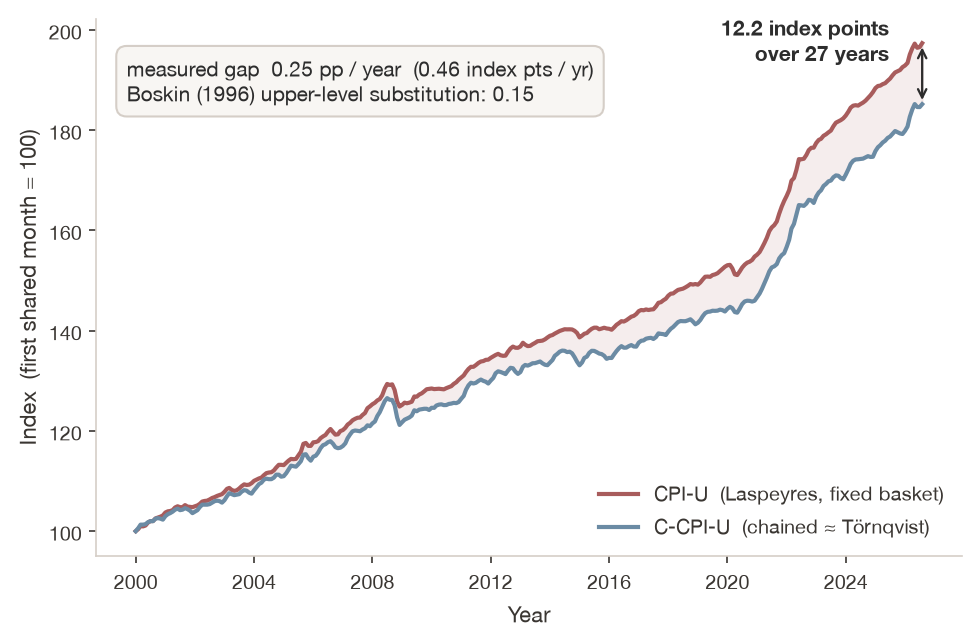
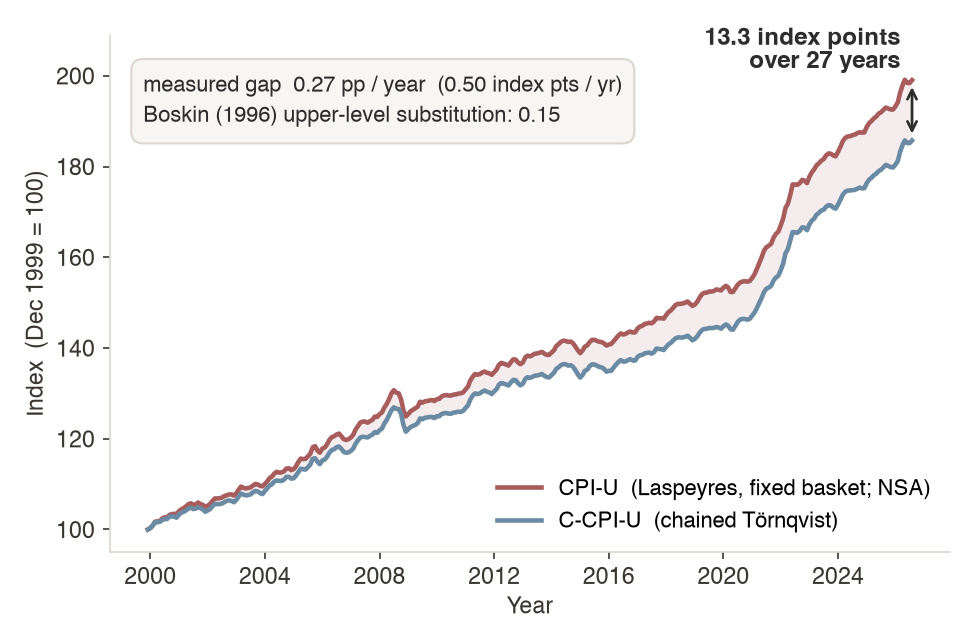
5200 Ch 2 deck: chained-CPI gap to 0.27 pp/yr, measured like-for-like as Lab 2 now does
Lab 2 Part 2 was rebuilt to compare the not seasonally adjusted CPI-U
(CPIAUCNS) with C-CPI-U from Dec 1999, the chained index's own base and
adjustment. Against the adjusted CPIAUCSL the end-point gap swings by more
than a point with the final month, which is where the deck's 0.25 came from.

Figure 4 regenerated (13.3 index points over 26.7 years = 0.50 points/yr =
0.27 pp/yr) by book/scripts/fig_5200_ch02_chained_cpi.py. Poll 3, its reveal
and the takeaway compound 0.27 instead of 0.25 (~15% over 53 years). The Lab 2
line on the closing slide no longer calls the broken 7.6-9.8 range index
units: it is real wages in 1982-84 dollars labelled as 2020 dollars.

Changed region(s): [[0.0, 0.0312, 0.9846, 0.9346], [0.5231, 0.9346, 0.5846, 0.9657], [0.6154, 0.2181, 0.6462, 0.2492]]

diff --git a/econ5200/ch02-measurement-indexes-nominal-vs-real/index.html b/econ5200/ch02-measurement-indexes-nominal-vs-real/index.html
@@ -514,16 +514,16 @@
     <section id="chained-cpi" style="padding: 24px 44px;">
       <h2 style="margin-bottom: 4px;"><i class="fa-solid fa-link" style="color: var(--secondary-color);"></i> The Theory, Shipped: the Chained CPI</h2>
       <div class="content" style="display: grid; grid-template-columns: 1fr 310px; gap: 20px; align-items: center;">
-        <img src="figures/figure_004_cpiu_vs_chained.png" alt="CPI-U and Chained CPI both indexed to 100 in 2000, diverging steadily to a gap of about 12 index points by 2026, annotated as about 0.25 percentage points per year of growth-rate gap, against the Boskin Commission's upper-level substitution estimate of 0.15" style="width: 100%; border-radius: 6px;">
+        <img src="figures/figure_004_cpiu_vs_chained.png" alt="Not seasonally adjusted CPI-U and the Chained CPI, both indexed to 100 in December 1999, diverging steadily to a gap of 13.3 index points by August 2026, annotated as 0.27 percentage points per year of growth-rate gap (0.50 index points per year), against the Boskin Commission's upper-level substitution estimate of 0.15" style="width: 100%; border-radius: 6px;">
         <div>
           <p style="font-size: 14pt; line-height: 1.55;">C-CPI-U (published since 2002) <em>is</em> a <strong>T&ouml;rnqvist</strong>, chained monthly with weights that move every month. Early prints use a CES approximation, revised 10&ndash;12 months later.</p>
           <div style="background: #f8f6f3; border-radius: 8px; padding: 13px 16px; margin-top: 14px;">
-            <p style="font-size: 14pt; line-height: 1.6; margin: 0;">Measured on live FRED in <strong>Lab 2, Part 2</strong>:<br><strong style="color: var(--accent-color); font-size: 17pt;">&asymp; 0.25 pp / year</strong><br><span style="color: var(--muted-color);">~12 index points since 2000 &mdash; the lab's 0.46 is points a year, not percent</span></p>
+            <p style="font-size: 14pt; line-height: 1.6; margin: 0;">Measured on live FRED in <strong>Lab 2, Part 2</strong>:<br><strong style="color: var(--accent-color); font-size: 17pt;">&asymp; 0.27 pp / year</strong><br><span style="color: var(--muted-color);">13.3 index points since Dec 1999 &mdash; 0.50 <em>points</em> a year, which is not a rate</span></p>
           </div>
           <p style="font-size: 13pt; color: var(--muted-color); margin-top: 12px; line-height: 1.5;">Boskin (1996): substitution 0.4 pp/yr = 0.15 upper-level + 0.25 lower-level. The lower level was fixed in 1999 <em>inside both</em> indexes, so this gap compares to the <strong>0.15</strong>. Total overstatement: 1.1 (0.8&ndash;1.6).</p>
         </div>
       </div>
-      <aside class="notes">2 min (was 3 &mdash; cut 2026-09-13). UNITS CORRECTION 2026-09-13, say it before they email you: Lab 2 Part 2 prints "annual gap" as 12.2 index points / 26.6 years = 0.46, and that is index POINTS per year. By 2026 both indexes stand near 190, so as a growth rate the gap is 2.59% vs 2.35% a year = 0.25 pp/yr (log gap / years = 0.24). The old deck said "0.45 pp/yr" &mdash; a units error, and a nice one to confess to: it is exactly "an index level is not a rate", the vibecession slide again. Be precise about Boskin: 0.4 was total SUBSTITUTION bias, 0.15 upper-level (between item categories) plus 0.25 lower-level (within them). BLS moved most lower-level indexes to geometric means in January 1999, inside BOTH CPI-U and C-CPI-U, so the chained gap measures upper-level substitution and the like-for-like Boskin figure is 0.15. Measured 0.25 against 0.15 predicted. 1.1 (range 0.8&ndash;1.6) was the total, which also includes quality and new-goods bias. Formula precision: the final C-CPI-U is a monthly-chained T&ouml;rnqvist; the initial release uses a constant-elasticity-of-substitution formula and is revised over the following 10&ndash;12 months.</aside>
+      <aside class="notes">2 min (was 3 &mdash; cut 2026-09-13). UNITS CORRECTION 2026-09-13, revised 2026-09-14 to match the rebuilt Lab 2. The lab now compares the NOT seasonally adjusted CPI-U (CPIAUCNS) with C-CPI-U, which is itself unadjusted and based Dec 1999 = 100; against the adjusted CPIAUCSL the end-point gap swings by more than a point with the final month. Lab 2 Part 2 prints both: 13.3 index points / 26.7 years = 0.50 index POINTS per year, and then makes students convert &mdash; 2.61% vs 2.35% a year = 0.27 pp/yr (log version 0.26). Both indexes now stand near 190&ndash;200, so a 1% rise is ~2 points, which is why the points figure is roughly double. The old deck and lab said "0.45 pp/yr" &mdash; a units error, and a nice one to confess to: it is exactly "an index level is not a rate", the vibecession slide again. BLS's own average Dec-to-Dec difference, 2001&ndash;2023, is about 0.2 pp; the 2021&ndash;23 relative-price swings push this window higher. Be precise about Boskin: 0.4 was total SUBSTITUTION bias, 0.15 upper-level (between item categories) plus 0.25 lower-level (within them). BLS moved most lower-level indexes to geometric means in January 1999, inside BOTH CPI-U and C-CPI-U, so the chained gap measures upper-level substitution and the like-for-like Boskin figure is 0.15. Measured 0.27 against 0.15 predicted. 1.1 (range 0.8&ndash;1.6) was the total, which also includes quality and new-goods bias. Formula precision: the final C-CPI-U is a monthly-chained T&ouml;rnqvist; the initial release uses a constant-elasticity-of-substitution formula and is revised over the following 10&ndash;12 months.</aside>
     </section>
 
     <!-- SLIDE 25: political object -->
@@ -762,17 +762,17 @@
         </div>
         <div class="poll-grid" data-poll-id="ch02-econ5200-poll-3" style="display: grid; grid-template-columns: 1fr 1fr; gap: 12px; margin-top: 14px; font-size: 14pt;">
           <div class="poll-option" data-choice="A" style="background: #f0f5f8; padding: 13px 17px; border-radius: 8px; cursor: pointer; transition: all 0.2s; border: 3px solid transparent;">A) The series is nominal, not real</div>
-          <div class="poll-option" data-choice="B" style="background: #f0f5f8; padding: 13px 17px; border-radius: 8px; cursor: pointer; transition: all 0.2s; border: 3px solid transparent;">B) It is a joint claim about wages <em>and</em> the deflator &mdash; the chained-CPI gap says the ruler overstates inflation by ~0.25 pp/yr</div>
+          <div class="poll-option" data-choice="B" style="background: #f0f5f8; padding: 13px 17px; border-radius: 8px; cursor: pointer; transition: all 0.2s; border: 3px solid transparent;">B) It is a joint claim about wages <em>and</em> the deflator &mdash; the chained-CPI gap says the ruler overstates inflation by ~0.27 pp/yr</div>
           <div class="poll-option" data-choice="C" style="background: #f0f5f8; padding: 13px 17px; border-radius: 8px; cursor: pointer; transition: all 0.2s; border: 3px solid transparent;">C) 2020 dollars are the wrong base period for a 1973 comparison</div>
           <div class="poll-option" data-choice="D" style="background: #f0f5f8; padding: 13px 17px; border-radius: 8px; cursor: pointer; transition: all 0.2s; border: 3px solid transparent;">D) It cherry-picks 1973, which is the local peak</div>
         </div>
-        <aside class="notes">1 min. D is a genuinely good objection and will split the room against B. That is the intended fight. For the reveal: 1.0025^53 = 1.14. The 0.25 is measured on 2000&ndash;2026 only, and pre-1999 CPI methods were more biased, not less &mdash; which is why BLS publishes the CPI-U-RS research series, back-casting current methods. If a student asks "so what is the right real-wage series?", that is the answer to point at.</aside>
+        <aside class="notes">1 min. D is a genuinely good objection and will split the room against B. That is the intended fight. For the reveal: 1.0027^53 = 1.15. The 0.27 is measured on Dec 1999&ndash;2026 only, and pre-1999 CPI methods were more biased, not less &mdash; which is why BLS publishes the CPI-U-RS research series, back-casting current methods. If a student asks "so what is the right real-wage series?", that is the answer to point at.</aside>
       </section>
       <section id="poll-3-reveal" data-poll-results="ch02-econ5200-poll-3" style="padding: 28px 50px;">
         <h2><i class="fa-solid fa-circle-check" style="color: var(--success-color);"></i> Answer: B &mdash; The Ruler Is Part of the Claim</h2>
         <div class="poll-results-chart" data-poll-id="ch02-econ5200-poll-3" style="display:flex; gap:20px; align-items:flex-end; justify-content:center; height:140px; margin:8px 60px 32px;"></div>
         <div style="padding: 0 46px;">
-          <p style="font-size: 14.5pt; line-height: 1.6;">Deflating by an index that overstates inflation <strong>understates real growth</strong> &mdash; and the chained-CPI slide measured it on live data. Compounded over 53 years, even 0.25 pp/year is about <strong>14%</strong> &mdash; against a measured real gain of 3.2%.</p>
+          <p style="font-size: 14.5pt; line-height: 1.6;">Deflating by an index that overstates inflation <strong>understates real growth</strong> &mdash; and the chained-CPI slide measured it on live data. Compounded over 53 years, even 0.27 pp/year is about <strong>15%</strong> &mdash; against a measured real gain of 3.2%.</p>
           <div style="background: #eef5ee; border-left: 4px solid var(--success-color); padding: 12px 20px; border-radius: 8px; margin-top: 12px;">
             <p style="font-size: 13.5pt; margin: 0;"><strong>Why D is the good wrong answer:</strong> it is a real objection &mdash; 1973 <em>is</em> the 1970s peak, so the window flatters the stagnation thesis. But D is a claim about the <em>window</em>; B is a claim about the <em>ruler</em>. A wrong ruler survives every choice of window. <strong>C is disposed of by Poll 1.</strong></p>
           </div>
@@ -1071,7 +1071,7 @@
           </div>
           <div style="display: grid; grid-template-columns: 42px 1fr; align-items: start; background: #eef5ee; border-radius: 8px; padding: 13px 18px; border-left: 4px solid var(--success-color);">
             <p style="font-size: 19pt;"><i class="fa-solid fa-scale-balanced" style="color: var(--success-color);"></i></p>
-            <p style="font-size: 14pt;"><strong>The deflator is part of the finding.</strong> &ldquo;Real wages were flat for fifty years&rdquo; is a joint claim about wages <em>and</em> the CPI. At ~0.25 pp/yr, compounding to ~14% over 53 years, the ruler is doing real work.</p>
+            <p style="font-size: 14pt;"><strong>The deflator is part of the finding.</strong> &ldquo;Real wages were flat for fifty years&rdquo; is a joint claim about wages <em>and</em> the CPI. At ~0.27 pp/yr, compounding to ~15% over 53 years, the ruler is doing real work.</p>
           </div>
           <div style="display: grid; grid-template-columns: 42px 1fr; align-items: start; background: #fdf0ea; border-radius: 8px; padding: 13px 18px; border-left: 4px solid var(--danger-color);">
             <p style="font-size: 19pt;"><i class="fa-solid fa-bullseye" style="color: var(--danger-color);"></i></p>
@@ -1108,7 +1108,7 @@
       <h2><i class="fa-solid fa-road" style="color: var(--secondary-color);"></i> Next: Lab 2, and Where This Returns</h2>
       <div class="content">
         <div style="background: #f0f5f8; border-radius: 10px; padding: 15px 22px; border-left: 4px solid var(--secondary-color);">
-          <p style="font-size: 14.5pt;"><strong>Lab 2 &mdash; <code>lab-ch02-diagnostic.ipynb</code>.</strong> Four bugs in a deflation pipeline &mdash; the broken version returns values in the <strong>7.6&ndash;9.8</strong> range, which are index units, not dollars, and that alone should tell you it is wrong. Then CPI-U vs C-CPI-U on live FRED, a Goodhart dashboard, and you ship <code>deflation_utils.py</code>.</p>
+          <p style="font-size: 14.5pt;"><strong>Lab 2 &mdash; <code>lab-ch02-diagnostic.ipynb</code>.</strong> Four bugs in a deflation pipeline &mdash; the broken version returns values in the <strong>7.6&ndash;9.8</strong> range, which are real wages in <em>1982&ndash;84</em> dollars while the code claims 2020 dollars, and that alone should tell you it is wrong. Then CPI-U vs C-CPI-U on live FRED, a Goodhart dashboard, and you ship <code>deflation_utils.py</code>.</p>
         </div>
         <div style="display: grid; grid-template-columns: repeat(3, 1fr); gap: 13px; margin-top: 14px;">
           <div style="background: #eef5ee; border-radius: 10px; padding: 13px 16px; text-align: center;">

diff --git a/econ5200/ch02-measurement-indexes-nominal-vs-real/presentation.html b/econ5200/ch02-measurement-indexes-nominal-vs-real/presentation.html
@@ -514,16 +514,16 @@
     <section id="chained-cpi" style="padding: 24px 44px;">
       <h2 style="margin-bottom: 4px;"><i class="fa-solid fa-link" style="color: var(--secondary-color);"></i> The Theory, Shipped: the Chained CPI</h2>
       <div class="content" style="display: grid; grid-template-columns: 1fr 310px; gap: 20px; align-items: center;">
-        <img src="figures/figure_004_cpiu_vs_chained.png" alt="CPI-U and Chained CPI both indexed to 100 in 2000, diverging steadily to a gap of about 12 index points by 2026, annotated as about 0.25 percentage points per year of growth-rate gap, against the Boskin Commission's upper-level substitution estimate of 0.15" style="width: 100%; border-radius: 6px;">
+        <img src="figures/figure_004_cpiu_vs_chained.png" alt="Not seasonally adjusted CPI-U and the Chained CPI, both indexed to 100 in December 1999, diverging steadily to a gap of 13.3 index points by August 2026, annotated as 0.27 percentage points per year of growth-rate gap (0.50 index points per year), against the Boskin Commission's upper-level substitution estimate of 0.15" style="width: 100%; border-radius: 6px;">
         <div>
           <p style="font-size: 14pt; line-height: 1.55;">C-CPI-U (published since 2002) <em>is</em> a <strong>T&ouml;rnqvist</strong>, chained monthly with weights that move every month. Early prints use a CES approximation, revised 10&ndash;12 months later.</p>
           <div style="background: #f8f6f3; border-radius: 8px; padding: 13px 16px; margin-top: 14px;">
-            <p style="font-size: 14pt; line-height: 1.6; margin: 0;">Measured on live FRED in <strong>Lab 2, Part 2</strong>:<br><strong style="color: var(--accent-color); font-size: 17pt;">&asymp; 0.25 pp / year</strong><br><span style="color: var(--muted-color);">~12 index points since 2000 &mdash; the lab's 0.46 is points a year, not percent</span></p>
+            <p style="font-size: 14pt; line-height: 1.6; margin: 0;">Measured on live FRED in <strong>Lab 2, Part 2</strong>:<br><strong style="color: var(--accent-color); font-size: 17pt;">&asymp; 0.27 pp / year</strong><br><span style="color: var(--muted-color);">13.3 index points since Dec 1999 &mdash; 0.50 <em>points</em> a year, which is not a rate</span></p>
           </div>
           <p style="font-size: 13pt; color: var(--muted-color); margin-top: 12px; line-height: 1.5;">Boskin (1996): substitution 0.4 pp/yr = 0.15 upper-level + 0.25 lower-level. The lower level was fixed in 1999 <em>inside both</em> indexes, so this gap compares to the <strong>0.15</strong>. Total overstatement: 1.1 (0.8&ndash;1.6).</p>
         </div>
       </div>
-      <aside class="notes">2 min (was 3 &mdash; cut 2026-09-13). UNITS CORRECTION 2026-09-13, say it before they email you: Lab 2 Part 2 prints "annual gap" as 12.2 index points / 26.6 years = 0.46, and that is index POINTS per year. By 2026 both indexes stand near 190, so as a growth rate the gap is 2.59% vs 2.35% a year = 0.25 pp/yr (log gap / years = 0.24). The old deck said "0.45 pp/yr" &mdash; a units error, and a nice one to confess to: it is exactly "an index level is not a rate", the vibecession slide again. Be precise about Boskin: 0.4 was total SUBSTITUTION bias, 0.15 upper-level (between item categories) plus 0.25 lower-level (within them). BLS moved most lower-level indexes to geometric means in January 1999, inside BOTH CPI-U and C-CPI-U, so the chained gap measures upper-level substitution and the like-for-like Boskin figure is 0.15. Measured 0.25 against 0.15 predicted. 1.1 (range 0.8&ndash;1.6) was the total, which also includes quality and new-goods bias. Formula precision: the final C-CPI-U is a monthly-chained T&ouml;rnqvist; the initial release uses a constant-elasticity-of-substitution formula and is revised over the following 10&ndash;12 months.</aside>
+      <aside class="notes">2 min (was 3 &mdash; cut 2026-09-13). UNITS CORRECTION 2026-09-13, revised 2026-09-14 to match the rebuilt Lab 2. The lab now compares the NOT seasonally adjusted CPI-U (CPIAUCNS) with C-CPI-U, which is itself unadjusted and based Dec 1999 = 100; against the adjusted CPIAUCSL the end-point gap swings by more than a point with the final month. Lab 2 Part 2 prints both: 13.3 index points / 26.7 years = 0.50 index POINTS per year, and then makes students convert &mdash; 2.61% vs 2.35% a year = 0.27 pp/yr (log version 0.26). Both indexes now stand near 190&ndash;200, so a 1% rise is ~2 points, which is why the points figure is roughly double. The old deck and lab said "0.45 pp/yr" &mdash; a units error, and a nice one to confess to: it is exactly "an index level is not a rate", the vibecession slide again. BLS's own average Dec-to-Dec difference, 2001&ndash;2023, is about 0.2 pp; the 2021&ndash;23 relative-price swings push this window higher. Be precise about Boskin: 0.4 was total SUBSTITUTION bias, 0.15 upper-level (between item categories) plus 0.25 lower-level (within them). BLS moved most lower-level indexes to geometric means in January 1999, inside BOTH CPI-U and C-CPI-U, so the chained gap measures upper-level substitution and the like-for-like Boskin figure is 0.15. Measured 0.27 against 0.15 predicted. 1.1 (range 0.8&ndash;1.6) was the total, which also includes quality and new-goods bias. Formula precision: the final C-CPI-U is a monthly-chained T&ouml;rnqvist; the initial release uses a constant-elasticity-of-substitution formula and is revised over the following 10&ndash;12 months.</aside>
     </section>
 
     <!-- SLIDE 25: political object -->
@@ -762,17 +762,17 @@
         </div>
         <div class="poll-grid" data-poll-id="ch02-econ5200-poll-3" style="display: grid; grid-template-columns: 1fr 1fr; gap: 12px; margin-top: 14px; font-size: 14pt;">
           <div class="poll-option" data-choice="A" style="background: #f0f5f8; padding: 13px 17px; border-radius: 8px; cursor: pointer; transition: all 0.2s; border: 3px solid transparent;">A) The series is nominal, not real</div>
-          <div class="poll-option" data-choice="B" style="background: #f0f5f8; padding: 13px 17px; border-radius: 8px; cursor: pointer; transition: all 0.2s; border: 3px solid transparent;">B) It is a joint claim about wages <em>and</em> the deflator &mdash; the chained-CPI gap says the ruler overstates inflation by ~0.25 pp/yr</div>
+          <div class="poll-option" data-choice="B" style="background: #f0f5f8; padding: 13px 17px; border-radius: 8px; cursor: pointer; transition: all 0.2s; border: 3px solid transparent;">B) It is a joint claim about wages <em>and</em> the deflator &mdash; the chained-CPI gap says the ruler overstates inflation by ~0.27 pp/yr</div>
           <div class="poll-option" data-choice="C" style="background: #f0f5f8; padding: 13px 17px; border-radius: 8px; cursor: pointer; transition: all 0.2s; border: 3px solid transparent;">C) 2020 dollars are the wrong base period for a 1973 comparison</div>
           <div class="poll-option" data-choice="D" style="background: #f0f5f8; padding: 13px 17px; border-radius: 8px; cursor: pointer; transition: all 0.2s; border: 3px solid transparent;">D) It cherry-picks 1973, which is the local peak</div>
         </div>
-        <aside class="notes">1 min. D is a genuinely good objection and will split the room against B. That is the intended fight. For the reveal: 1.0025^53 = 1.14. The 0.25 is measured on 2000&ndash;2026 only, and pre-1999 CPI methods were more biased, not less &mdash; which is why BLS publishes the CPI-U-RS research series, back-casting current methods. If a student asks "so what is the right real-wage series?", that is the answer to point at.</aside>
+        <aside class="notes">1 min. D is a genuinely good objection and will split the room against B. That is the intended fight. For the reveal: 1.0027^53 = 1.15. The 0.27 is measured on Dec 1999&ndash;2026 only, and pre-1999 CPI methods were more biased, not less &mdash; which is why BLS publishes the CPI-U-RS research series, back-casting current methods. If a student asks "so what is the right real-wage series?", that is the answer to point at.</aside>
       </section>
       <section id="poll-3-reveal" data-poll-results="ch02-econ5200-poll-3" style="padding: 28px 50px;">
         <h2><i class="fa-solid fa-circle-check" style="color: var(--success-color);"></i> Answer: B &mdash; The Ruler Is Part of the Claim</h2>
         <div class="poll-results-chart" data-poll-id="ch02-econ5200-poll-3" style="display:flex; gap:20px; align-items:flex-end; justify-content:center; height:140px; margin:8px 60px 32px;"></div>
         <div style="padding: 0 46px;">
-          <p style="font-size: 14.5pt; line-height: 1.6;">Deflating by an index that overstates inflation <strong>understates real growth</strong> &mdash; and the chained-CPI slide measured it on live data. Compounded over 53 years, even 0.25 pp/year is about <strong>14%</strong> &mdash; against a measured real gain of 3.2%.</p>
+          <p style="font-size: 14.5pt; line-height: 1.6;">Deflating by an index that overstates inflation <strong>understates real growth</strong> &mdash; and the chained-CPI slide measured it on live data. Compounded over 53 years, even 0.27 pp/year is about <strong>15%</strong> &mdash; against a measured real gain of 3.2%.</p>
           <div style="background: #eef5ee; border-left: 4px solid var(--success-color); padding: 12px 20px; border-radius: 8px; margin-top: 12px;">
             <p style="font-size: 13.5pt; margin: 0;"><strong>Why D is the good wrong answer:</strong> it is a real objection &mdash; 1973 <em>is</em> the 1970s peak, so the window flatters the stagnation thesis. But D is a claim about the <em>window</em>; B is a claim about the <em>ruler</em>. A wrong ruler survives every choice of window. <strong>C is disposed of by Poll 1.</strong></p>
           </div>
@@ -1071,7 +1071,7 @@
           </div>
           <div style="display: grid; grid-template-columns: 42px 1fr; align-items: start; background: #eef5ee; border-radius: 8px; padding: 13px 18px; border-left: 4px solid var(--success-color);">
             <p style="font-size: 19pt;"><i class="fa-solid fa-scale-balanced" style="color: var(--success-color);"></i></p>
-            <p style="font-size: 14pt;"><strong>The deflator is part of the finding.</strong> &ldquo;Real wages were flat for fifty years&rdquo; is a joint claim about wages <em>and</em> the CPI. At ~0.25 pp/yr, compounding to ~14% over 53 years, the ruler is doing real work.</p>
+            <p style="font-size: 14pt;"><strong>The deflator is part of the finding.</strong> &ldquo;Real wages were flat for fifty years&rdquo; is a joint claim about wages <em>and</em> the CPI. At ~0.27 pp/yr, compounding to ~15% over 53 years, the ruler is doing real work.</p>
           </div>
           <div style="display: grid; grid-template-columns: 42px 1fr; align-items: start; background: #fdf0ea; border-radius: 8px; padding: 13px 18px; border-left: 4px solid var(--danger-color);">
             <p style="font-size: 19pt;"><i class="fa-solid fa-bullseye" style="color: var(--danger-color);"></i></p>
@@ -1108,7 +1108,7 @@
       <h2><i class="fa-solid fa-road" style="color: var(--secondary-color);"></i> Next: Lab 2, and Where This Returns</h2>
       <div class="content">
         <div style="background: #f0f5f8; border-radius: 10px; padding: 15px 22px; border-left: 4px solid var(--secondary-color);">
-          <p style="font-size: 14.5pt;"><strong>Lab 2 &mdash; <code>lab-ch02-diagnostic.ipynb</code>.</strong> Four bugs in a deflation pipeline &mdash; the broken version returns values in the <strong>7.6&ndash;9.8</strong> range, which are index units, not dollars, and that alone should tell you it is wrong. Then CPI-U vs C-CPI-U on live FRED, a Goodhart dashboard, and you ship <code>deflation_utils.py</code>.</p>
+          <p style="font-size: 14.5pt;"><strong>Lab 2 &mdash; <code>lab-ch02-diagnostic.ipynb</code>.</strong> Four bugs in a deflation pipeline &mdash; the broken version returns values in the <strong>7.6&ndash;9.8</strong> range, which are real wages in <em>1982&ndash;84</em> dollars while the code claims 2020 dollars, and that alone should tell you it is wrong. Then CPI-U vs C-CPI-U on live FRED, a Goodhart dashboard, and you ship <code>deflation_utils.py</code>.</p>
         </div>
         <div style="display: grid; grid-template-columns: repeat(3, 1fr); gap: 13px; margin-top: 14px;">
           <div style="background: #eef5ee; border-radius: 10px; padding: 13px 16px; text-align: center;">
